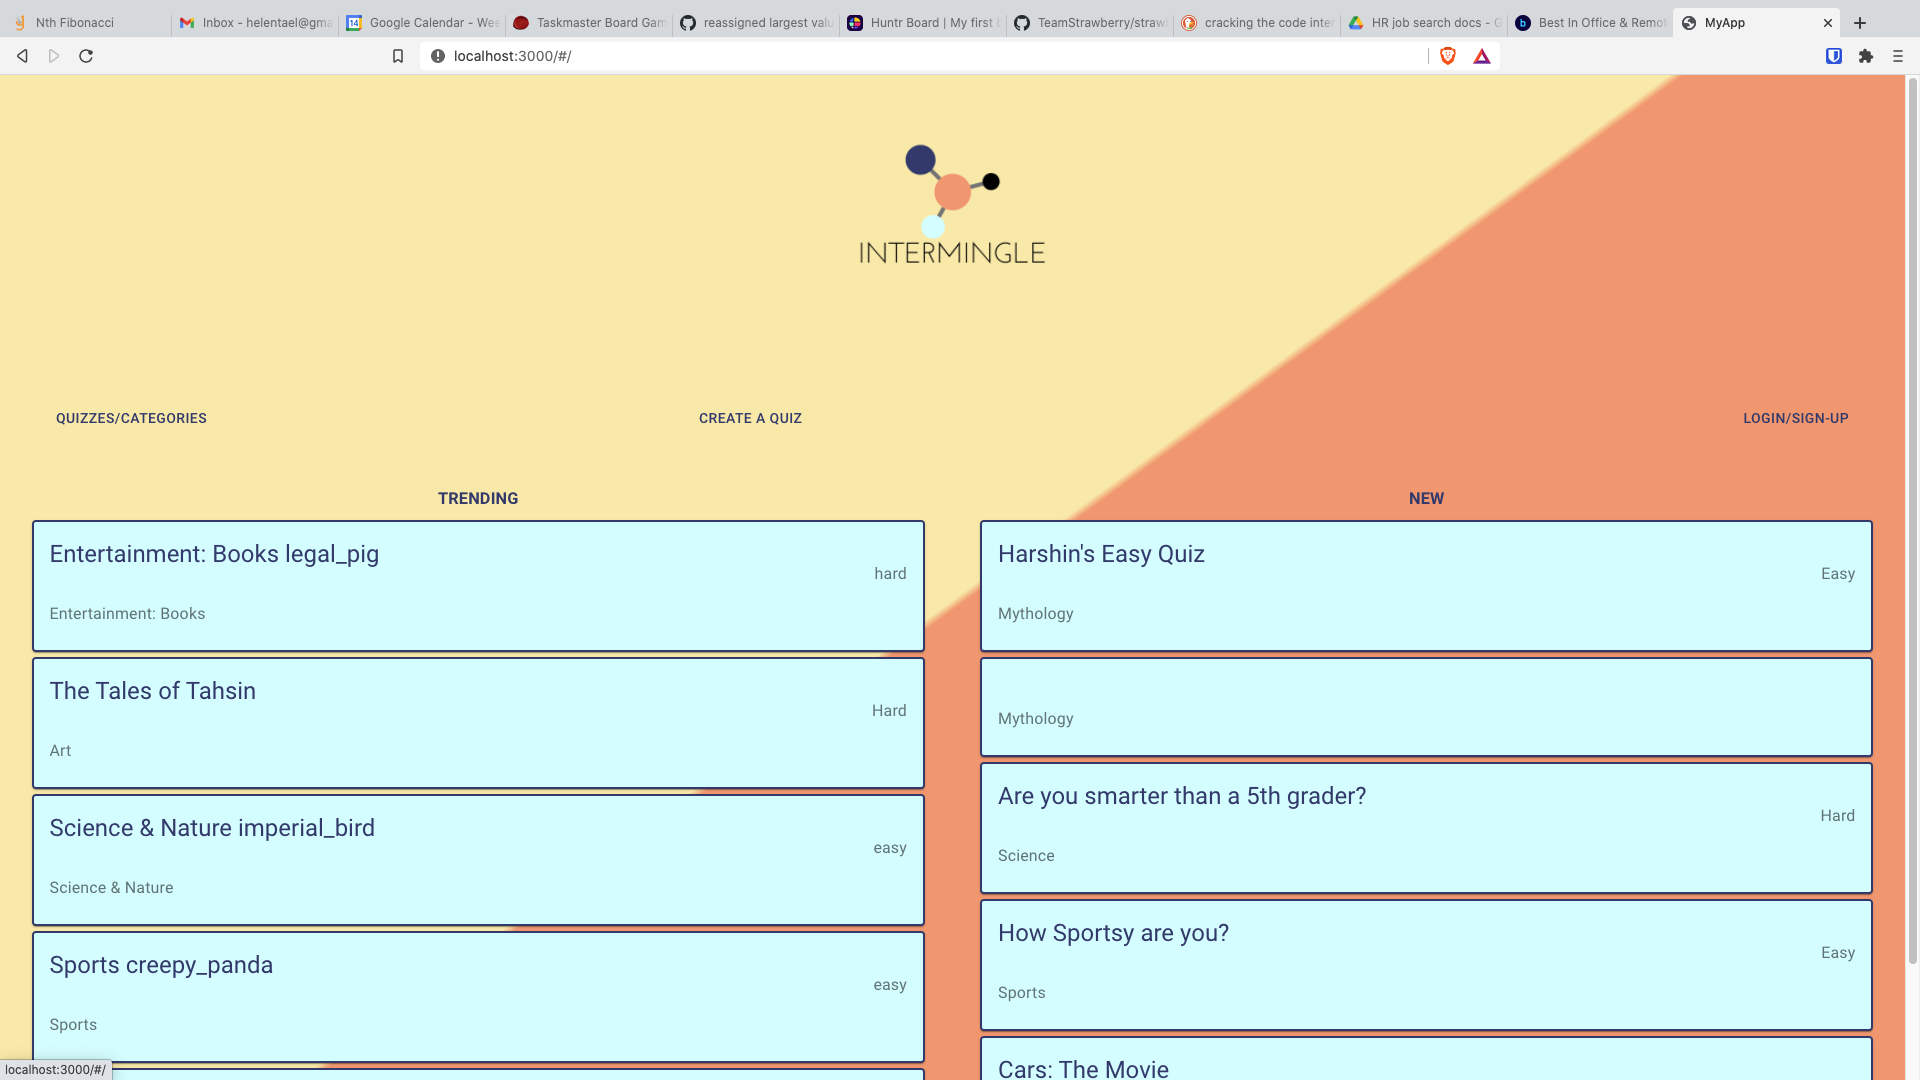
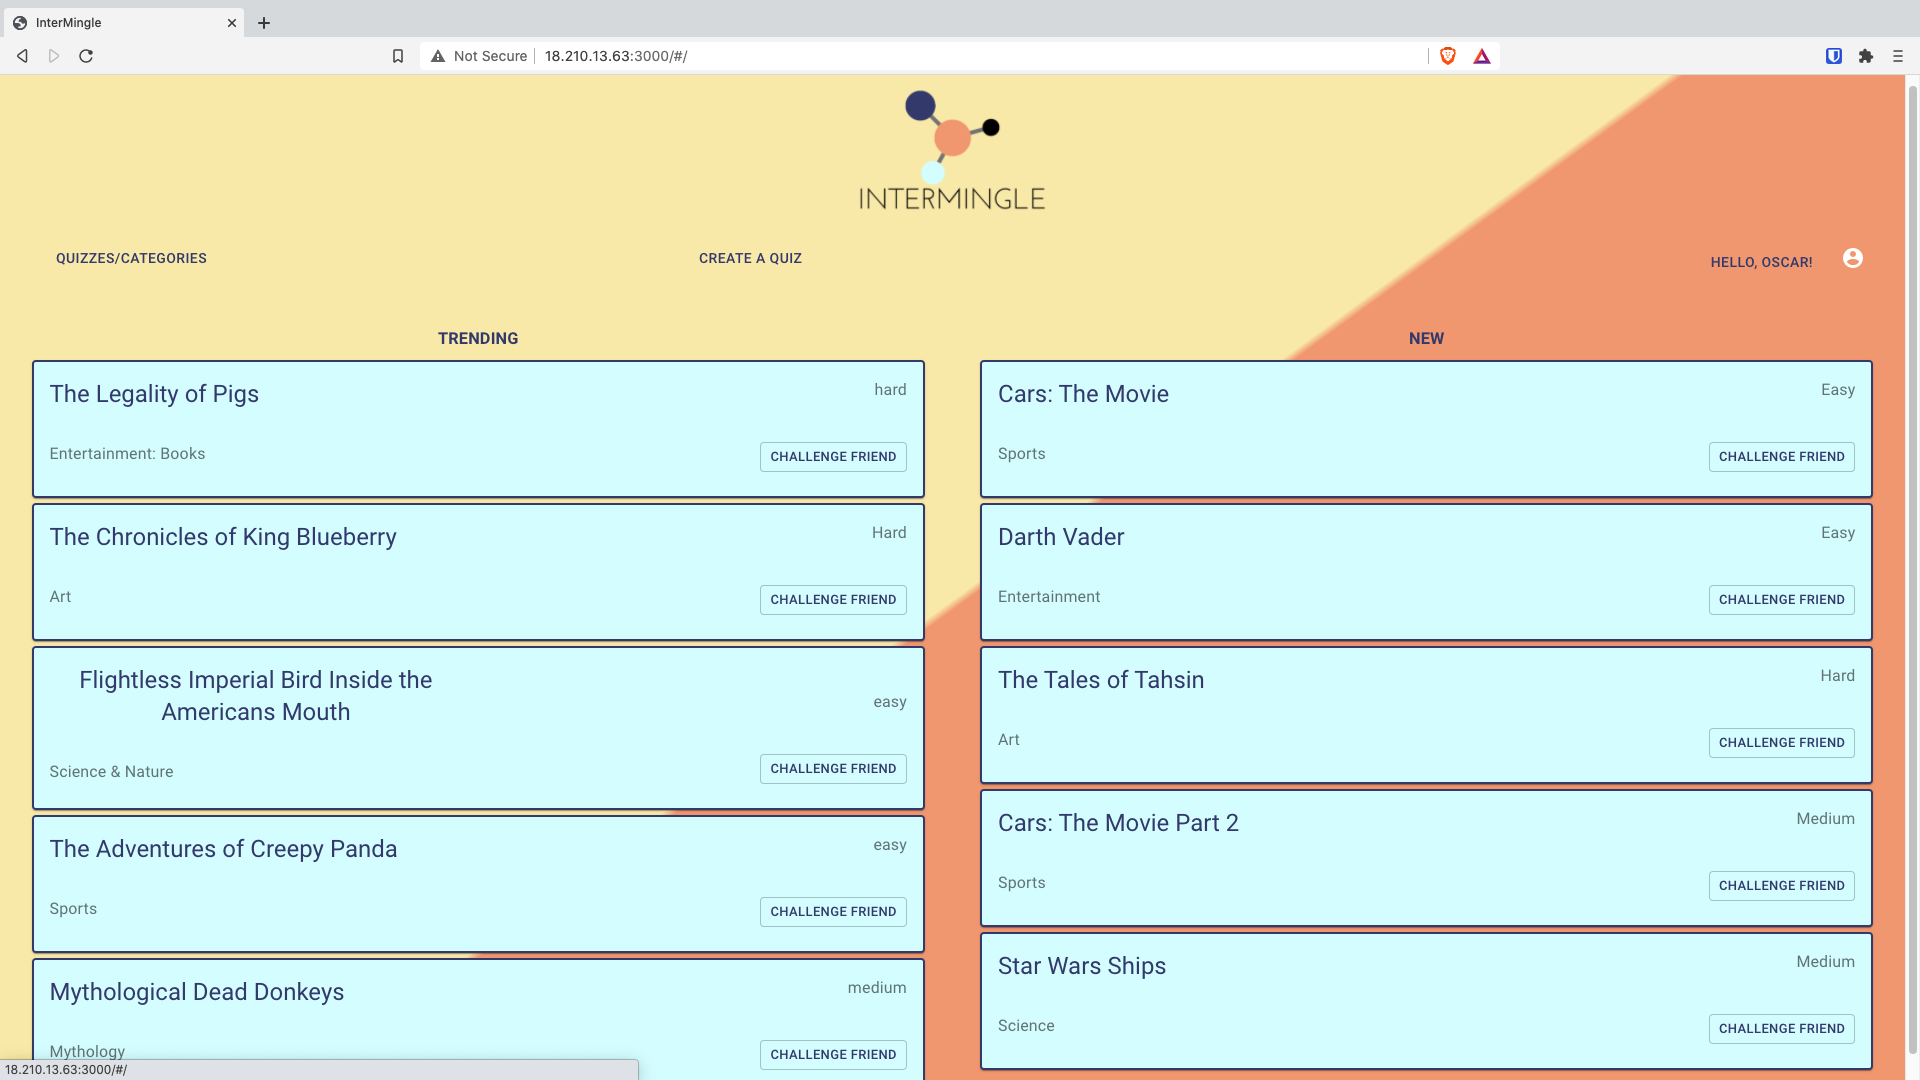
readme images

diff --git a/README.md b/README.md
@@ -5,6 +5,15 @@ Intermingle is the latest, greatest, social quiz taking site serving up fresh ho
 See fresh and hot quizzes on the homepage!
 ![Intermingle homepage](https://github.com/TeamStrawberry/strawberry/blob/stage/images/homepage.png?raw=true)
 
+Take quizzes until your heart's content
+![Take a quiz](https://github.com/TeamStrawberry/strawberry/blob/stage/images/takeQuiz.png?raw=true)
+
+Think you can beat your friends? Challenge them to a quiz-off!
+![challenge friends](https://github.com/TeamStrawberry/strawberry/blob/stage/images/challengeFriend.png?raw=true)
+
+Are you an expert on a topic? Then make your own quiz and see if it's true
+![make a quiz](https://github.com/TeamStrawberry/strawberry/blob/stage/images/makeQuiz.png?raw=true)
+
 
 # Current Release
 We worked directly with our client to prioritize critical features for this initial release.
